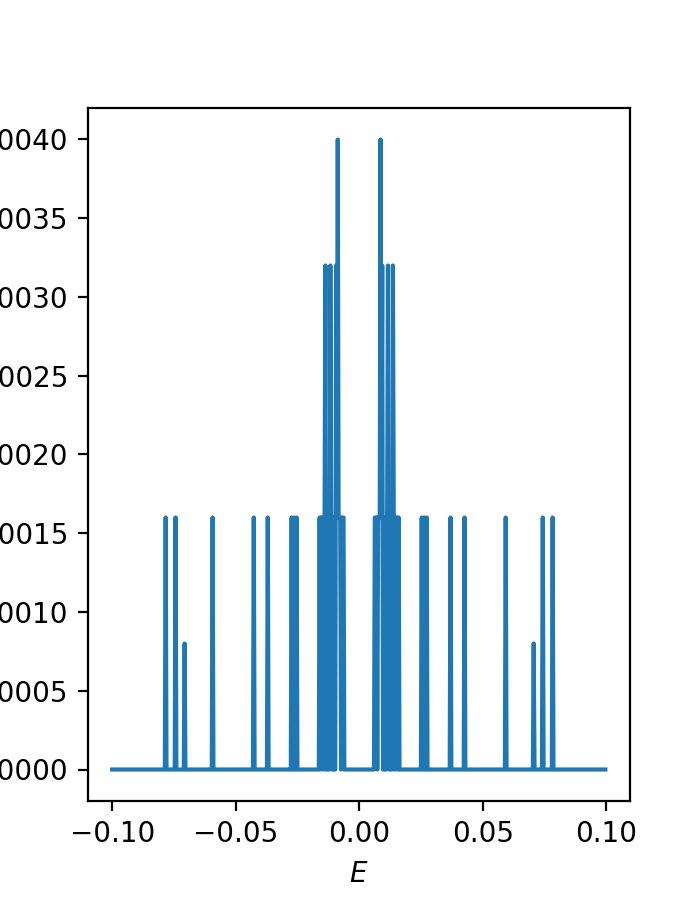
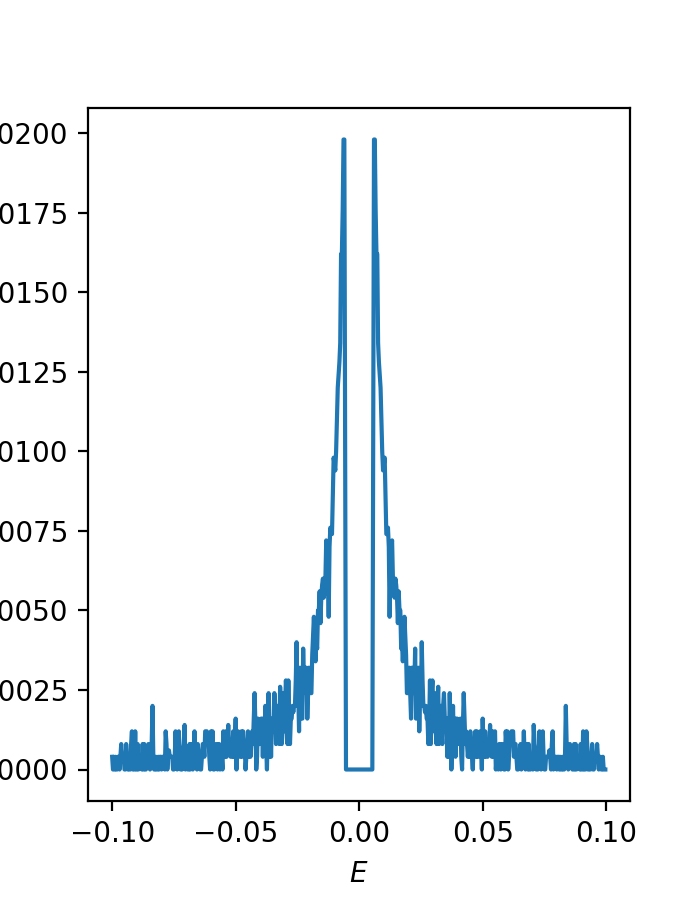
aded

diff --git a/kondo_dos.py b/kondo_dos.py
@@ -45,7 +45,7 @@ def reader(mu):
 def main():
 	mu_c = 0
 	afm_c,Xi, mu_f = reader(mu_c)
-	L= 100
+	L= 200
 	PI = np.pi
 	band_1 = []
 	band_2 = []
@@ -70,7 +70,7 @@ def main():
 				H_ti = generate_hamiltonian(kx,ky, mu_f[counter], mu_c/8 , Xi[counter])
 				eig_vals = LA.eigvalsh(H_ti)
 				for en in eig_vals:
-					if (abs(en -each - (mu_c/8)) < 1e-5):
+					if (abs(en -each - (mu_c/8)) < 1e-4):
 						rho += 1
 				# print(en)
 		rho = rho / (L**2)
